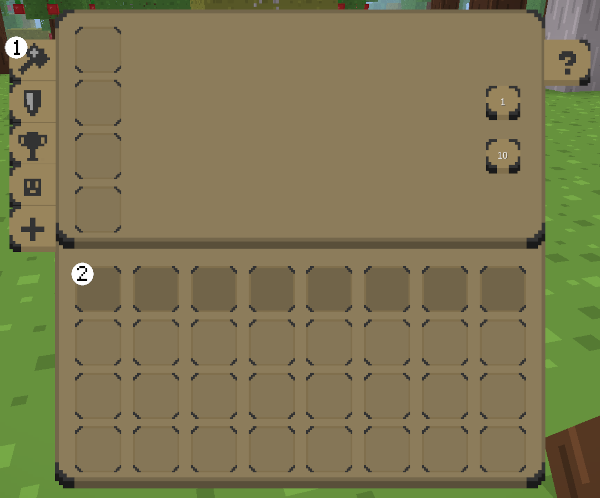
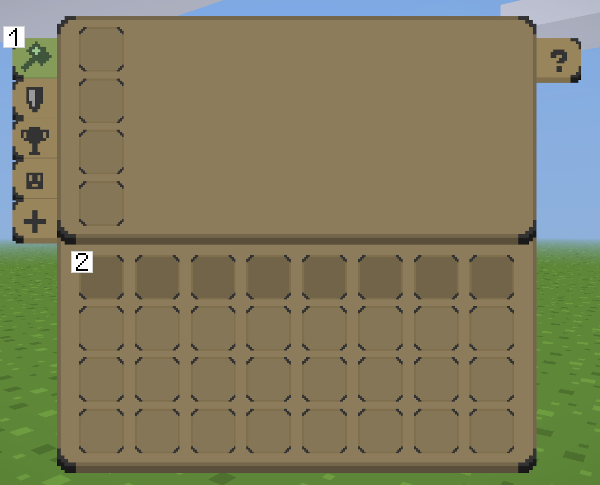
Update manual images and text

diff --git a/manual_generator/content/manual.md b/manual_generator/content/manual.md
@@ -128,7 +128,7 @@ The <span class="concept">inventory</span> screen shows your inventory as well a
 
 ![Inventory menu](./assets/images/screenshots/inventory_basic.png)
 
-The inventory screen is organized in <span class="concept">pages</span>. The tabs on the left side, shown on the screenshot at the number (1), let you switch the page. The screenshot shows that we’re on the Crafting page right now.
+The inventory screen is organized in <span class="concept">pages</span>. The tabs on the left side, shown on the screenshot at the number (1), let you switch the page. The tab highlighted in green indicates the current tab. On this screenshot, we’re on the Crafting page.
 
 Some pages, like the Crafting page, show your inventory (2). The inventory is where you store and move your items. The top row represents your hotbar, i.e. the items you can actually use while exploring the world.
 
@@ -158,7 +158,11 @@ Finally, the black question mark button (5) toggles the crafting guide and the q
 
 In this page you can view and equip armor, which protects you from some forms of damage.
 
-If you have a helmet, chestplate or a pair of boots, simply put it into the matching slot to equip it. Move an item away from the armor slots to unequip it.
+If you have a helmet, chestplate or a pair of boots, simply put it into the matching slot (1) to equip it. Move an item away from the armor slots to unequip it.
+
+Next to the shield icon (2) you see your current protection level. Damage is reduced by the shown percentage.
+
+If you receive any armor bonuses, additional icons and text may appear on the page. Move the cursor on the icon for an explanation.
 
 #### Achievements
 
@@ -295,7 +299,7 @@ If you equip <span class="concept">armor</span>, and you’ll take less damage f
 
 3 types of armor fit on your body: <span class="itemgroup">Helmet</span>, <span class="itemgroup">chestplate</span> and <span class="itemgroup">boots</span>.
 
-You can equip armor in your inventory menu in the “Armor” tab. Alternatively, just wield the armor and press <kbd>Punch</kbd>. If you have already a piece of armor of the same type equipped, you will switch out your armor.
+You can equip armor in your inventory menu in the “Armor” page. Alternatively, just wield the armor and press <kbd>Punch</kbd>. If you have already a piece of armor of the same type equipped, you will switch out your armor.
 
 Each piece of armor has a certain <span class="concept">protection</span> value which reduces damage by a certain percentage. So for example, if you equip a helmet with 5% protection, you will take 5% less damage. Protection adds up: If you have a helmet with 10% protection and a chestplate with 10% protection, your total protection will be 20%.
 
